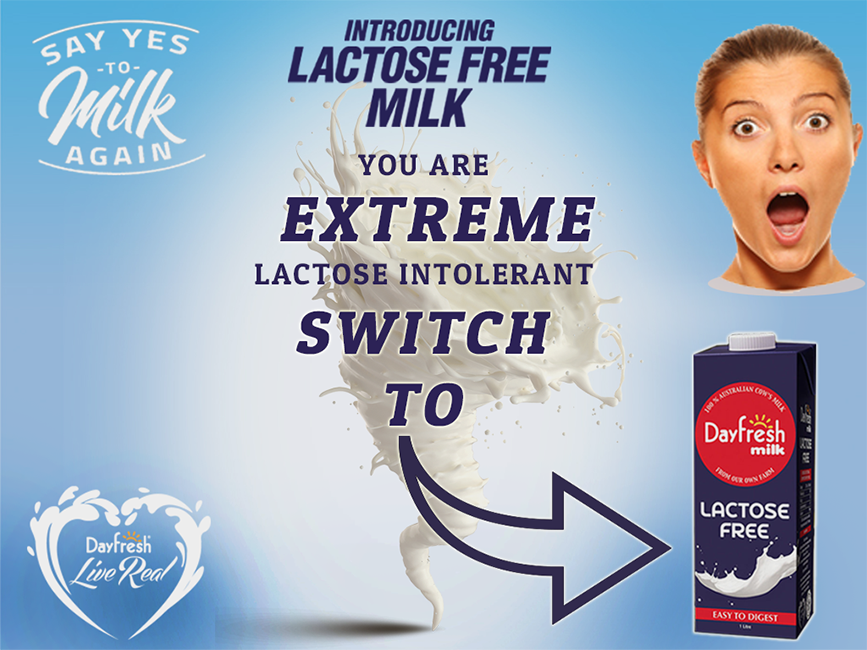
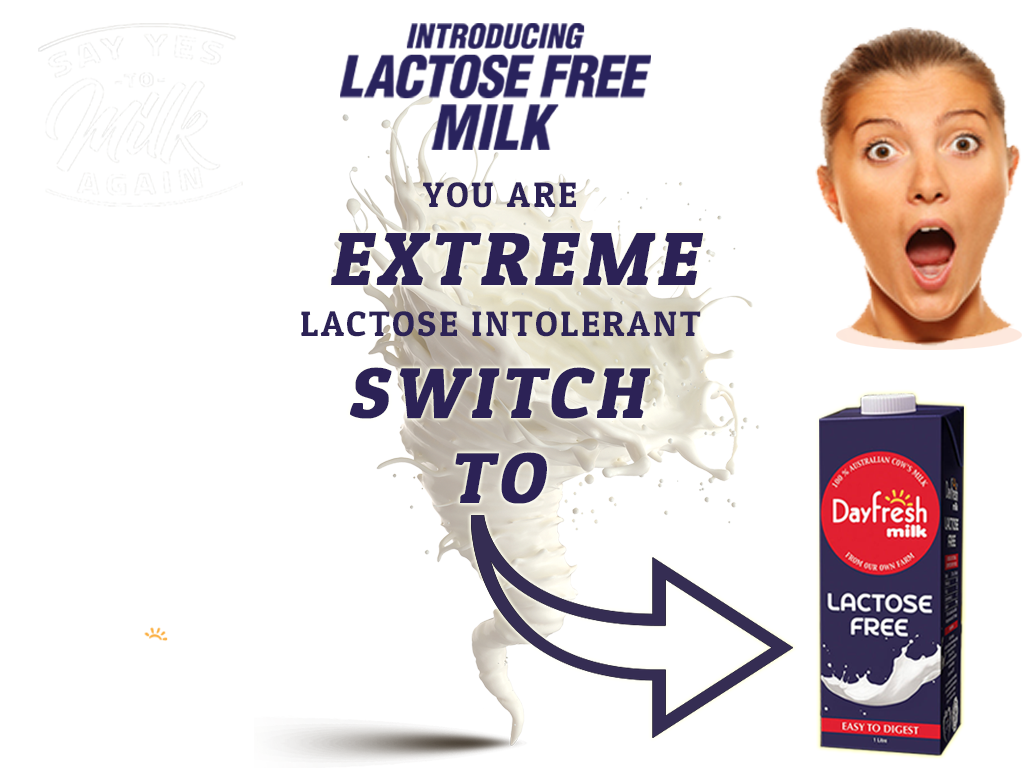
Add files via upload

diff --git a/index.html b/index.html
@@ -6,10 +6,11 @@
   <meta content="width=device-width, initial-scale=1.0" name="viewport">
   <meta content="" name="keywords">
   <meta content="" name="description">
+
   <!-- <link rel="stylesheet" href="https://maxcdn.bootstrapcdn.com/bootstrap/3.3.5/css/bootstrap.min.css"> -->
   <link href="style.css" rel="stylesheet">
   </head>
 <body style="background: #93b6d9 url('intro.png') no-repeat center; text-align: -webkit-center;" >
-  <a href="Q1.html"><img style="margin-top: 30%;" src="start.png" ></a>
+  <a class="playSound" href="Q1.html"><img style="margin-top: 30%;" src="start.png" ></a>
 </body>
 </html>

diff --git a/not-intolerant.html b/not-intolerant.html
@@ -20,7 +20,7 @@
   </head>
 <body style="background: #93b6d9 url('not-intolerant.png') no-repeat center;">
   <div class="container">
-  <a href="index.html"><img style="margin-top: 10%;" src="startagain.png" ></a>
+  <a href="index.html"><img style="margin-top: 20%;" src="startagain.png" ></a>
   </div>
 </body>
 </html>

diff --git a/moderate-lacoste.html b/moderate-lacoste.html
@@ -20,7 +20,7 @@
   </head>
 <body style="background: #93b6d9 url('moderate.png') no-repeat center;">
   <div class="container">
-  <a href="index.html"><img style="margin-top: 10%;" src="startagain.png" ></a>
+  <a href="index.html"><img style="margin-top: 20%;" src="startagain.png" ></a>
   </div>
 </body>
 </html>

diff --git a/severe-lacoste.html b/severe-lacoste.html
@@ -20,7 +20,7 @@
   </head>
 <body style="background: #93b6d9 url('severe.png') no-repeat center;">
   <div class="container">
-  <a href="index.html"><img style="margin-top: 10%;" src="startagain.png" ></a>
+  <a href="index.html"><img style="margin-top: 20%;" src="startagain.png" ></a>
   </div>
 </body>
 </html>

diff --git a/mild-lacoste.html b/mild-lacoste.html
@@ -20,7 +20,7 @@
   </head>
 <body style="background: #93b6d9 url('mild.png') no-repeat center;">
   <div class="container">
-  <a href="index.html"><img style="margin-top: 10%;" src="startagain.png" ></a>
+  <a href="index.html"><img style="margin-top: 20%;" src="startagain.png" ></a>
   </div>
 </body>
 </html>

diff --git a/style.css b/style.css
@@ -1,6 +1,6 @@
 
  body{
-    background: #93b6d9 url('bg.png') no-repeat center;
+    background: url('black.png') repeat center, url('bg1.png') no-repeat center, linear-gradient(#6198d5, #58baeb);
     margin: 0;
     padding: 0;
     }
